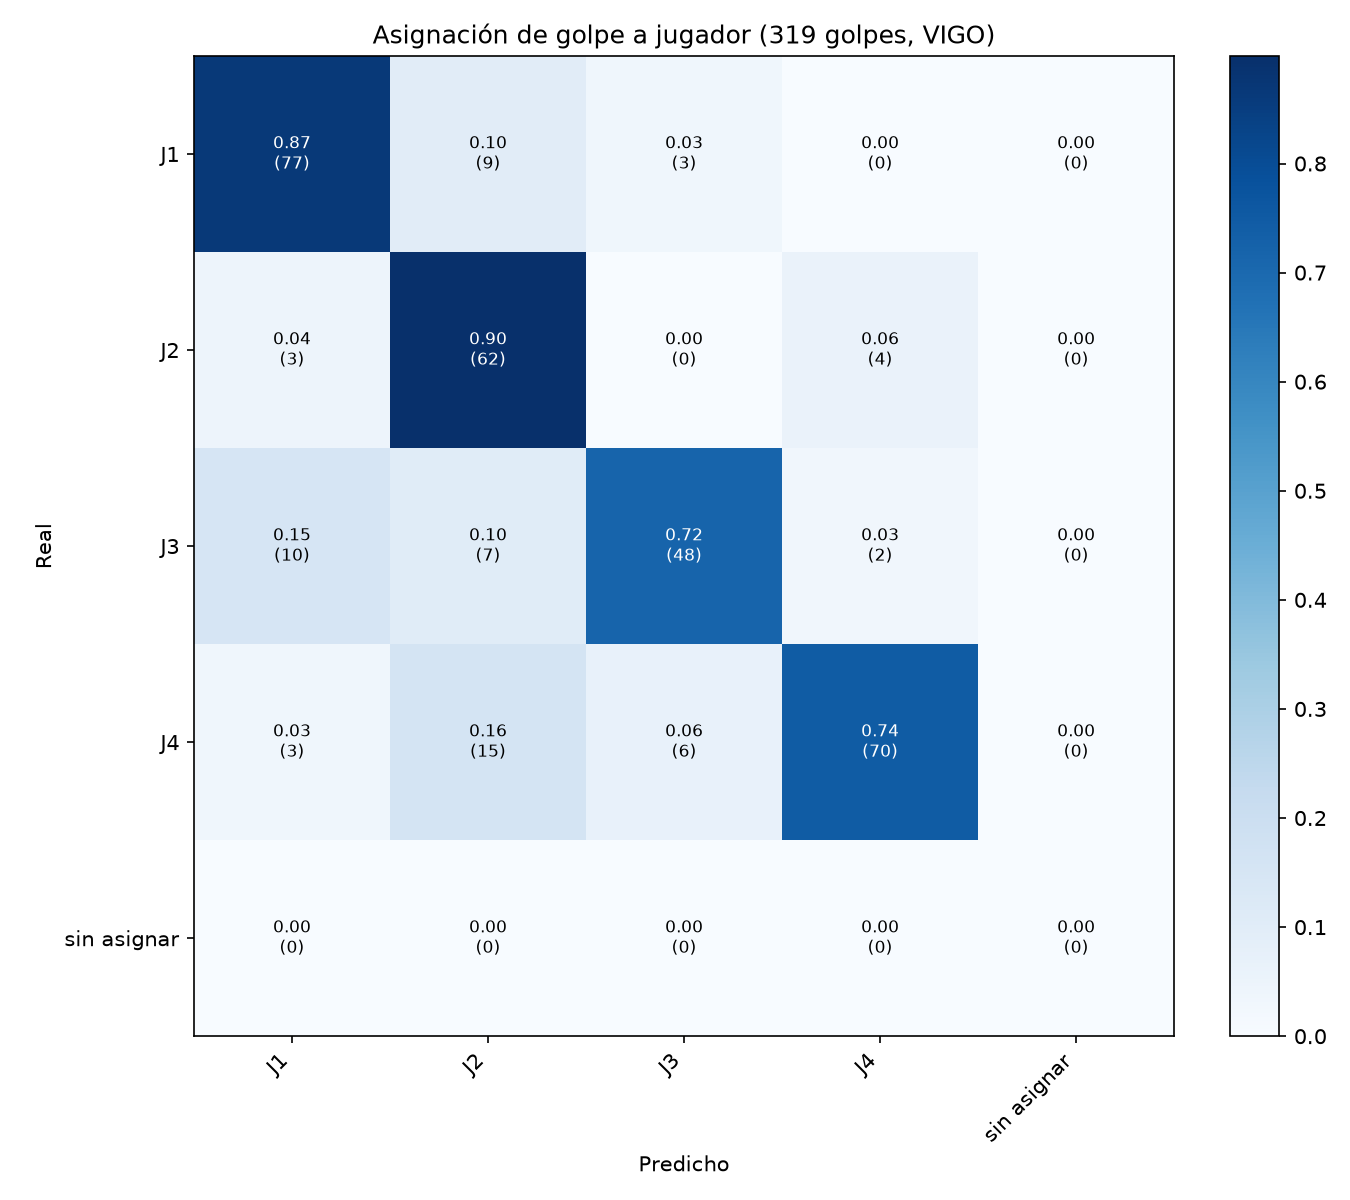
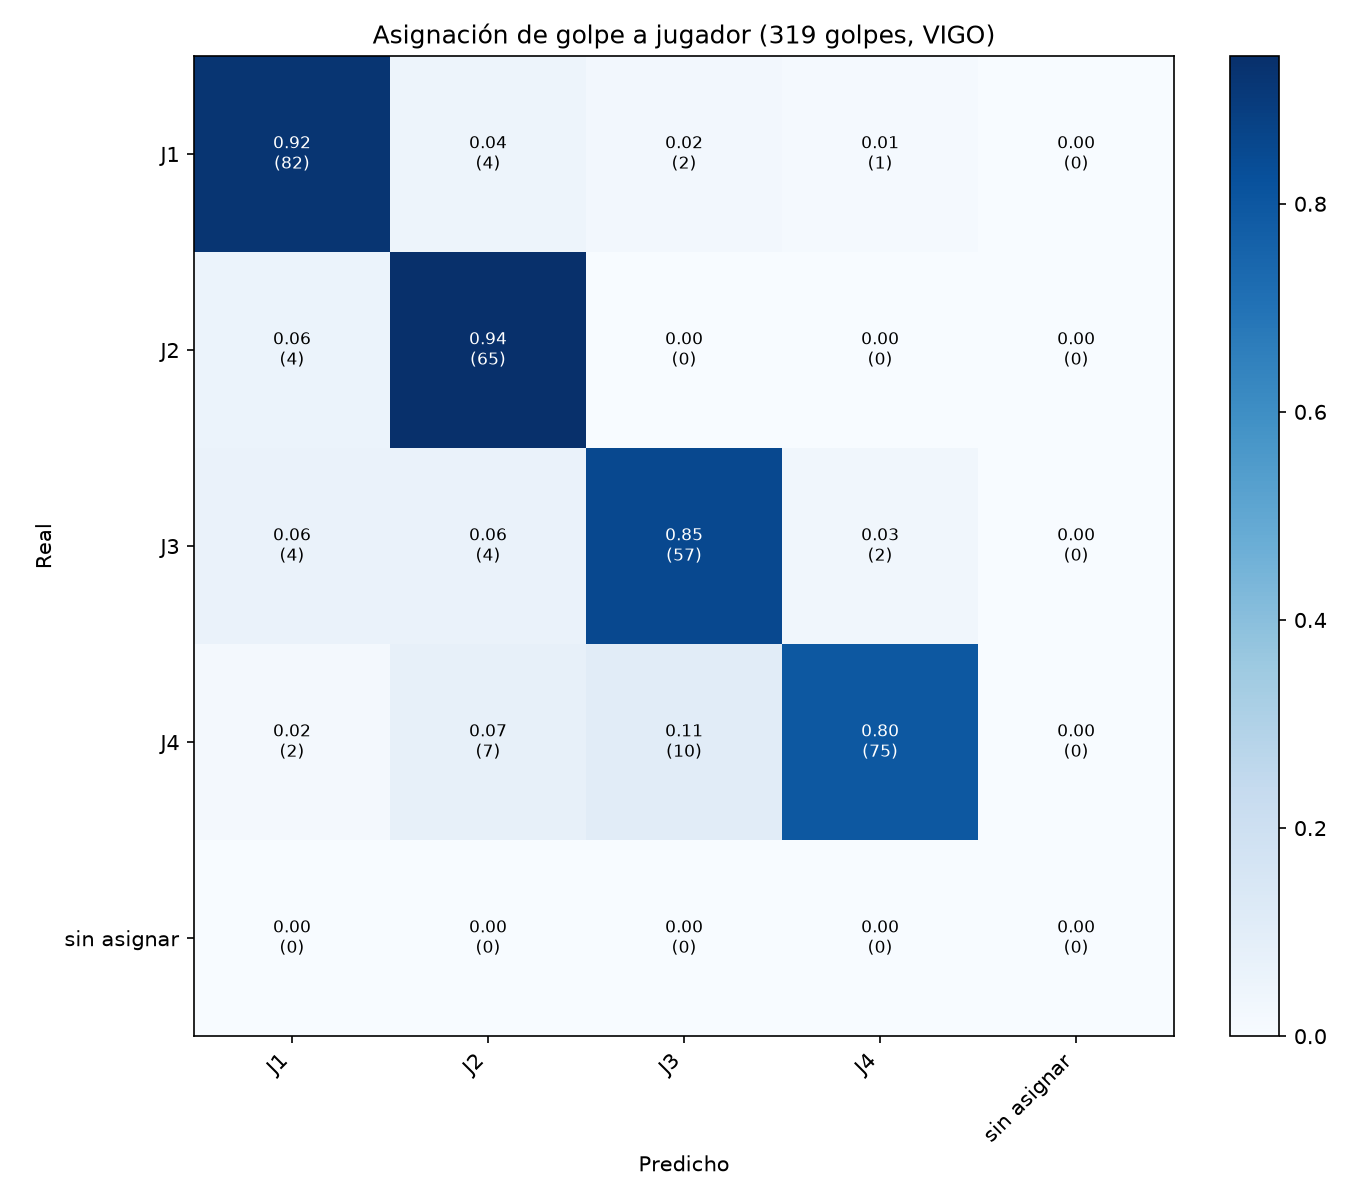
docs: la resolucion de la pelota supera al paper (jugador 87,46%, equipo 93,73%)
512x288 -> 768x432 en TrackNet, sin reentrenar (la red es convolucional):
  jugador 80,57% -> 87,46%  (paper 83,70%)
  equipo  86,84% -> 93,73%  (paper 86,83%)

+6,9 puntos en ambas. Causa: las detecciones congeladas bajan de 14,3% a 8,9%,
y eran las que pegaban la pelota a un jugador y le atribuian golpes ajenos.

Anotada tambien la prediccion fallida (se estimo +0 a +2) y por que el
precedente del filtro de congelados llevaba a subestimar.

diff --git a/docs/experiments.md b/docs/experiments.md
@@ -1287,3 +1287,61 @@ Queda anotado antes de entrenar, no como diagnóstico a posteriori.
 ~2.377 decisiones a unos 4-6 s cada una. El etiquetado por marca rápida (ADR-0014)
 frente a anotar keypoints (2-3 min/golpe como en PadelTracker100) es lo que hace
 viable un dataset de este tamaño en un TFG.
+
+## HITO: la resolución de la pelota supera al paper (sep 2026)
+
+Observación de Jorge al ver el vídeo: el sistema atribuía mal el golpe con
+frecuencia, sobre todo en remates, y la estela de la pelota "iba a saltos"
+comparada con la de una demo comercial. Su hipótesis: el problema principal está
+en la pelota, no en el clasificador.
+
+**Diagnóstico.** Medida la calidad de la pista de pelota sobre los 83.299 frames:
+solo el 71,6% son detecciones sanas (7,9% sin detección, **16,1% congeladas**,
+3,8% teletransportes). Una detección "congelada" es el detector enganchado a un
+distractor estático que repite el mismo píxel durante decenas de frames; como
+queda pegado a algún jugador, la asignación le atribuye todos los golpes con
+total confianza. Ese era el mecanismo que ponía los remates al otro lado de la red.
+
+**Experimento del oráculo** (para saber si merecía la pena tocar la pelota):
+situando la pelota exactamente en la muñeca del golpeador real, la asignación
+sube a 91,2%. Es decir, la pelota explicaba ~14 puntos de error, y el techo lo
+marcaba la pose (el golpeador real está ausente de su propio frame de golpe en el
+10% de los casos, y en 4 de 319 está literalmente fuera del encuadre).
+
+**La solución fue la resolución de inferencia.** TrackNet es totalmente
+convolucional, así que acepta un frame mayor que el 512×288 con el que se
+entrenó, **sin reentrenar nada**:
+
+| Resolución | Pelota detectada | Congeladas | Velocidad |
+|---|---|---|---|
+| 512×288 (anterior) | 89,4 % | 14,3 % | 37,7 fps |
+| **768×432** | **91,0 %** | **8,9 %** | **30,9 fps** |
+| 1024×576 | 87,9 % | 5,5 % | 21 fps |
+
+1024 se descartó: se aleja demasiado del dominio de entrenamiento y la detección
+cae. A 768 la pelota ocupa más píxeles y deja de confundirse con distractores.
+
+**Resultado sobre el GT del paper (319 golpes anotados):**
+
+| | 512×288 | 768×432 | Paper |
+|---|---|---|---|
+| Jugador | 80,57 % | **87,46 %** | 83,70 % |
+| Equipo | 86,84 % | **93,73 %** | 86,83 % |
+
+**+6,9 puntos en ambas métricas, y se SUPERA al trabajo publicado** en 3,8 puntos
+(jugador) y 6,9 (equipo), asignando además los 319 golpes sin abstenciones
+mientras el paper deja algunos sin asignar. F1 por jugador entre 0,838 y 0,906.
+
+**Lecciones para la memoria:**
+
+1. **La predicción fue mala y conviene decirlo.** Se estimó "+0 a +2 puntos" y
+   fueron +6,9. El precedente que llevó a subestimar (el filtro de congelados
+   había arreglado el 16% de detecciones falsas ganando solo 0,6 puntos) resultó
+   engañoso: filtrar una detección mala deja un hueco, mientras que detectarla
+   bien aporta información.
+2. **El coste fue una línea.** 8 minutos más de proceso (48 vs 40) y ningún
+   reentrenamiento. El cuello de botella del pipeline es YOLO-pose, no TrackNet,
+   así que subir la resolución de la pelota apenas penaliza.
+3. **El diagnóstico vino de mirar el vídeo.** Las métricas agregadas decían
+   "79%" sin señalar dónde; ver la estela a saltos y los golpes mal atribuidos
+   apuntó al eslabón correcto. Conviene inspeccionar la salida, no solo medirla.
